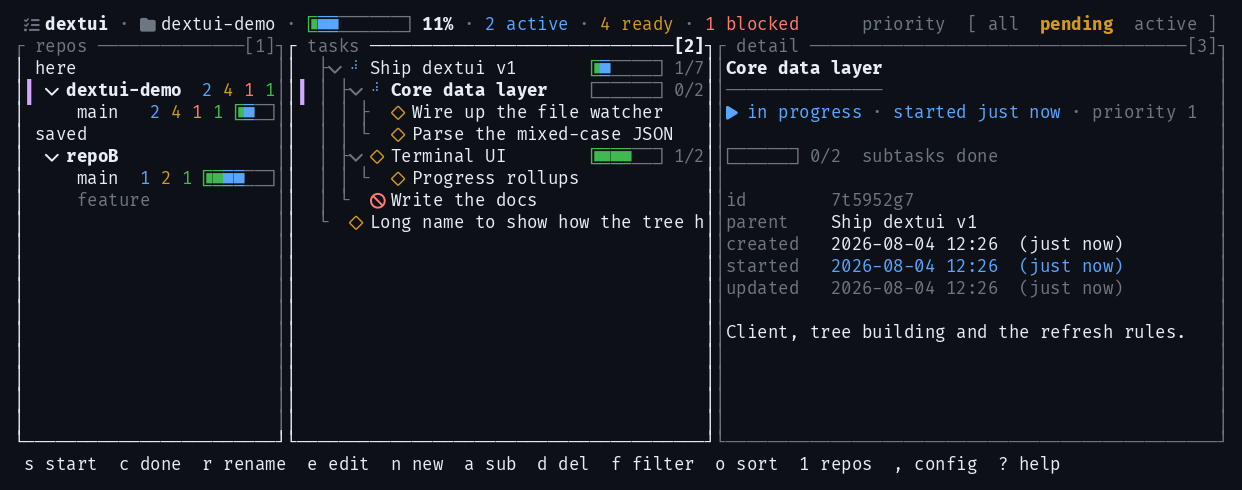
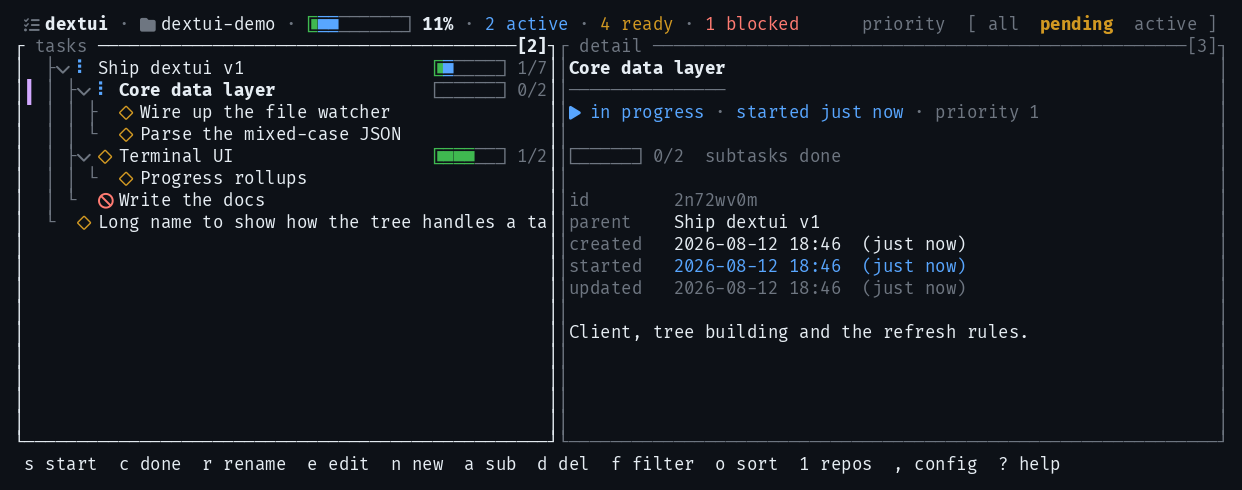
docs: lead with the layout you actually launch into
The README's first picture was three panes wide, sidebar included. That
stopped being what the app does when the sidebar started hidden by default
-- so the one image someone judges dextui by was showing a layout they
would not get, and could not get without knowing a key the picture did not
mention.

The default shot is now the two panes you land on. Regenerating it took no
argument at all: the script drives the real binary, so the default simply
became correct on its own once `repos_open` did.

The sidebar keeps a picture, in the section that explains it, where it is
worth more than it was at the top. `KEYS=1` both reveals and focuses it,
which the old shot did not show: the focus gutter sits on a repo row and
the shortcut strip switches to the repo keys, so the one place `a` means
something else is visible rather than only described a paragraph below.

Both invocations are now in screenshot.sh's header, next to the narrow
pair's, including why 116 columns is the width that makes it a third pane
rather than one that displaces the detail.

Changed region(s): [[0.0306, 0.0612, 0.9485, 0.9184]]

diff --git a/README.md b/README.md
@@ -4,7 +4,7 @@ A terminal UI for browsing and triaging [dex](https://dex.rip/) tasks —
 task tree on the left, full detail on the right, and, press `1` away, a
 sidebar of every repo and its worktrees.
 
-![dextui showing a task tree with progress meters, a selected row, a detail pane and the repo sidebar](docs/img/dextui-dark.png)
+![dextui showing a task tree with progress meters and a selected row beside the detail pane for that task](docs/img/dextui-dark.png)
 
 <sub>Nerd Font glyphs; the default set works in any terminal. Regenerate with
 `scripts/screenshot.sh`.</sub>
@@ -162,6 +162,12 @@ dextui can watch more than one repo at once — other projects, or other
 worktrees of the one you are in. Press `1` to focus the sidebar, and moving
 the cursor switches the tree and detail panes to whatever worktree it lands
 on, the same way moving the tree cursor changes the detail.
+
+![the repo sidebar focused beside the task tree and detail pane, listing the current repo under a "here" heading and a second registered repo and its worktrees under "saved"](docs/img/dextui-repos.png)
+
+<sub>The same terminal as the shot at the top, after pressing `1`. The
+shortcut strip follows the focus, since `a` means something different
+here.</sub>
 
 The sidebar has two sections. **`here`** is the repo you launched in, and it
 sits there while it is still unsaved. **`saved`** is the list you can reach
